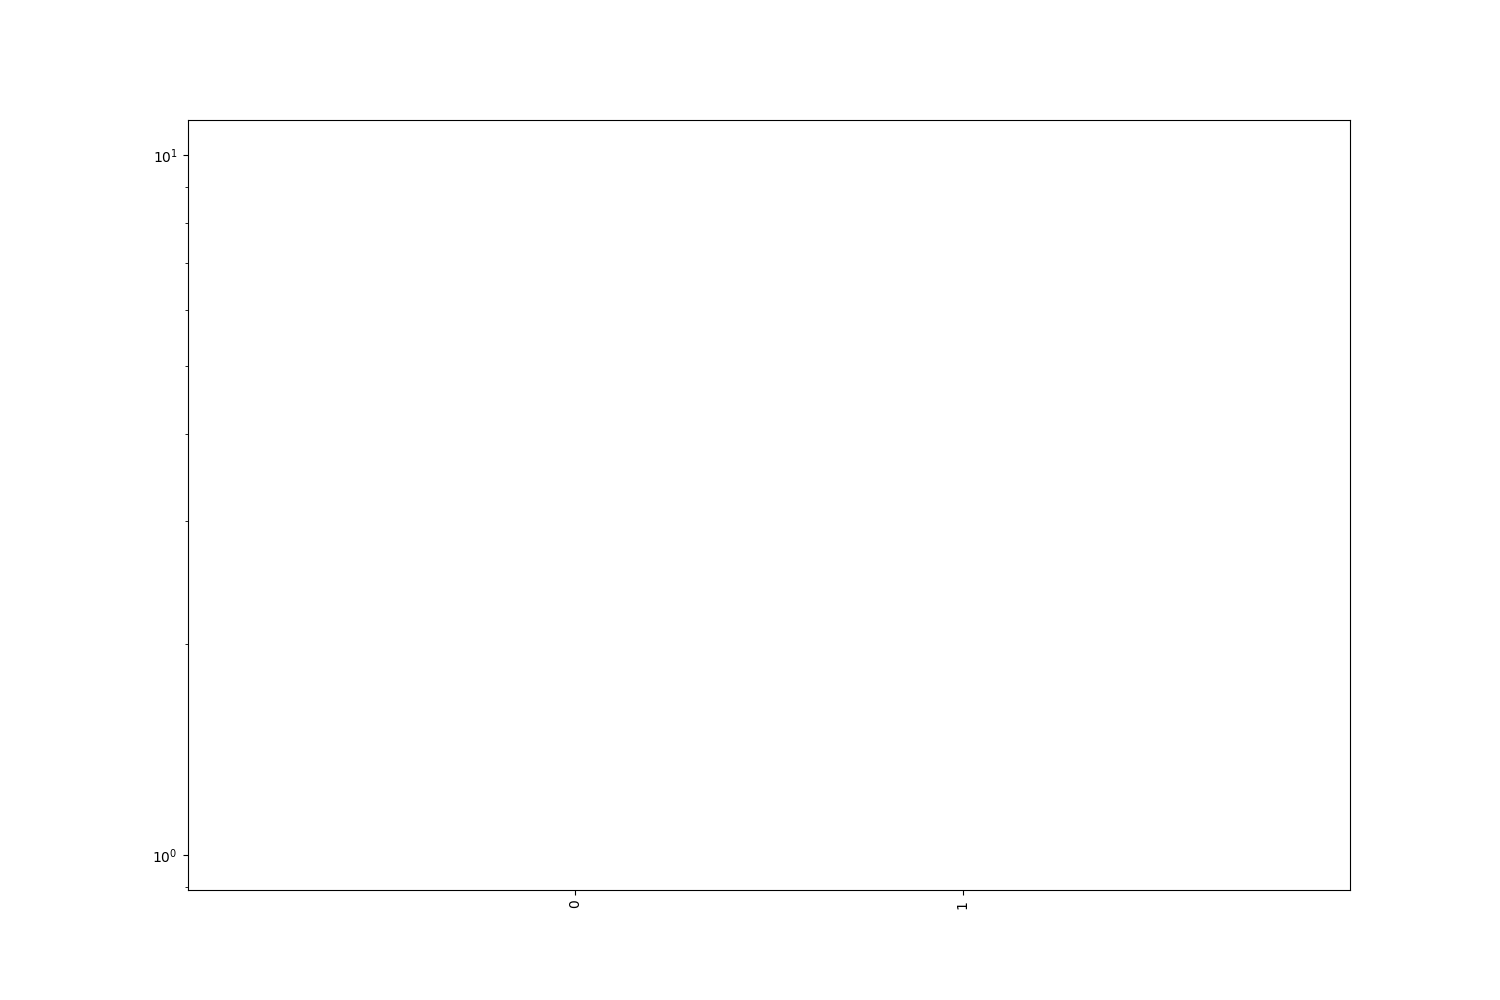
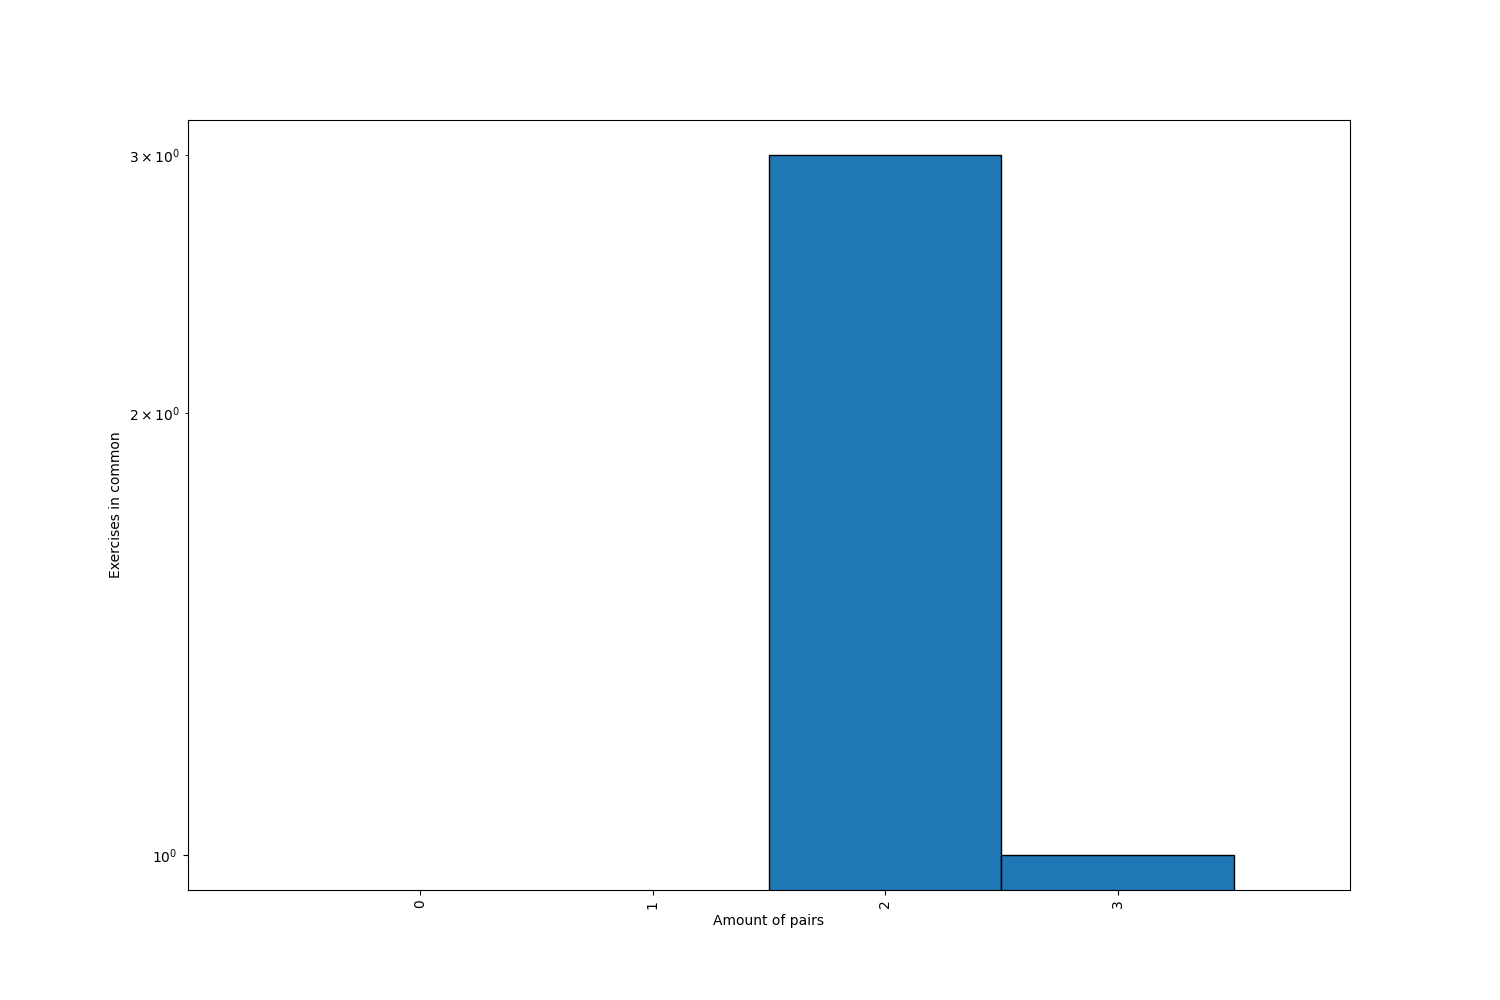
Updated images and results. There was an error when generating the tolerance_under_tol graphs

Changed region(s): [[0.4907, 0.155, 0.828, 0.93], [0.092, 0.403, 0.1227, 0.434], [0.0613, 0.527, 0.092, 0.558]]

diff --git a/SuspiciousPatternId/MainCD.py b/SuspiciousPatternId/MainCD.py
@@ -364,11 +364,15 @@ plt.show()
 #plt.show()
 
 plt.figure(figsize=(15, 10))
-plt.hist(total_exercises_under_tol, bins=np.arange(total_exercises_under_tol.max()) - 0.5, ec='black')
+plt.hist(total_exercises_under_tol, bins=np.arange(total_exercises_under_tol.max()) + 1.5, ec='black')
 plt.yscale('log')
-plt.xticks(range(total_exercises_under_tol.max() - 1), rotation=90)
-plt.xlim([-1, total_exercises_under_tol.max() - 1])
+plt.xticks(range(total_exercises_under_tol.max() + 1), rotation=90)
+plt.xlim([-1, total_exercises_under_tol.max() + 1])
+plt.xlabel("Amount of pairs")
+plt.ylabel("Exercises in common")
 plt.savefig(str(tol) + '/' + str(trimming) + '-total_exercises_under_tol.png')
+
+print("Total number of pairs: ", len(total_exercises_under_tol))
 
 np.savetxt("exercise_dump.txt", total_exercises_under_tol)
 
